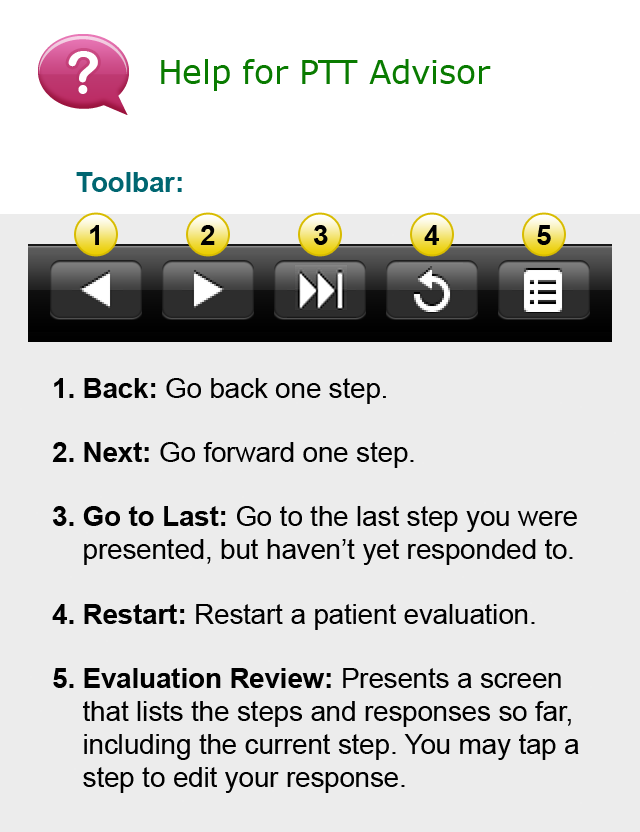
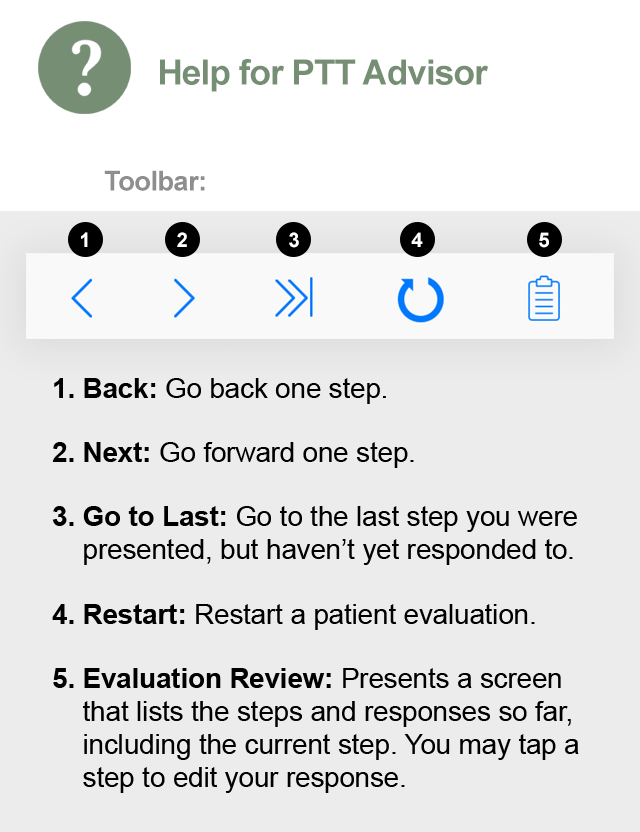
Status bar set to same color as toolbars. Add 1px line below top toolbar. New help image.

Changed region(s): [[0.0312, 0.1875, 0.9688, 0.4375], [0.25, 0.0625, 0.7812, 0.125], [0.0625, 0.0, 0.2188, 0.1562]]

diff --git a/Classes/AppDelegate.m b/Classes/AppDelegate.m
@@ -31,6 +31,23 @@ AppManager *appMgr;
     // Override point for customization after application launch.
     appMgr = [AppManager singletonAppManager];
  
+    // set status bar color
+//    UIView *view=[[UIView alloc] initWithFrame:CGRectMake(0, 0,[UIScreen mainScreen].bounds.size.width, 20)];
+//    view.backgroundColor = [UIColor colorWithRed:(249.0/255) green:(249.0/255) blue:(249.0/255) alpha:1.0];
+//    [self.window.rootViewController.view addSubview:view];
+    
+    
+    // status bar style and visibility
+    [UIApplication sharedApplication].statusBarHidden = NO;
+    [UIApplication sharedApplication].statusBarStyle = UIStatusBarStyleLightContent;
+    
+    // change status bar color
+    UIView *statusBar = [[UIApplication sharedApplication] valueForKey:@"statusBar"] ;
+    if ([statusBar respondsToSelector:NSSelectorFromString(@"setBackgroundColor:")] ) {
+        statusBar.backgroundColor = [UIColor colorWithRed:(249.0/255) green:(249.0/255) blue:(249.0/255) alpha:1.0];
+    }
+    
+
     
     // Set the application defaults
     NSUserDefaults *defaults = [NSUserDefaults standardUserDefaults];

diff --git a/Classes/EulaViewController.m b/Classes/EulaViewController.m
@@ -72,6 +72,25 @@ AppManager *appMgr;
 
 }
 
+-(void)viewWillAppear:(BOOL)animated
+{
+    
+    self.navigationController.navigationBarHidden = YES;
+    
+    // status bar style and visibility
+    [UIApplication sharedApplication].statusBarHidden = NO;
+    [UIApplication sharedApplication].statusBarStyle = UIStatusBarStyleLightContent;
+    
+    // change status bar color
+    UIView *statusBar = [[UIApplication sharedApplication] valueForKey:@"statusBar"] ;
+    if ([statusBar respondsToSelector:NSSelectorFromString(@"setBackgroundColor:")] ) {
+        statusBar.backgroundColor = [UIColor colorWithRed:(249.0/255) green:(249.0/255) blue:(249.0/255) alpha:1.0];
+    }
+    
+    
+}
+
+
 -(BOOL) webView:(UIWebView *)inWeb shouldStartLoadWithRequest:(NSURLRequest *)inRequest navigationType:(UIWebViewNavigationType)inType {
     if ( inType == UIWebViewNavigationTypeLinkClicked ) {
         [[UIApplication sharedApplication] openURL:[inRequest URL]];

diff --git a/Classes/DecisionVC.m b/Classes/DecisionVC.m
@@ -266,8 +266,6 @@ VisitedDecisionNodes *visitedNodes;
         
         [btnAnswer1 setTitle:btn1Connector.text forState:UIControlStateNormal];
         [btnAnswer1 setHidden:NO];
-//        [[btnAnswer1 layer] setBorderWidth:2.0f];
-//        [[btnAnswer1 layer] setBorderColor:[UIColor colorWithRed:0.00 green:0.47 blue:1.00 alpha:1.0].CGColor];
         
         
         if ([appMgr isDebugInfoEnabled]) {
@@ -287,8 +285,6 @@ VisitedDecisionNodes *visitedNodes;
         
         [btnAnswer2 setTitle:btn2Connector.text forState:UIControlStateNormal];
         [btnAnswer2 setHidden:NO];
-//        [[btnAnswer2 layer] setBorderWidth:1.0f];
-//        [[btnAnswer2 layer] setBorderColor:[UIColor colorWithRed:0.00 green:0.47 blue:1.00 alpha:1.0].CGColor];
         
         if ([appMgr isDebugInfoEnabled]) {
             self.labelBtn2Tree.text = [NSString stringWithFormat:@"Tree %lu", (unsigned long)btn2Connector.endNode.treeNumber];

diff --git a/Classes/HelpVC.m b/Classes/HelpVC.m
@@ -47,6 +47,24 @@
     // Do any additional setup after loading the view from its nib.
 }
 
+-(void)viewWillAppear:(BOOL)animated
+{
+    
+    self.navigationController.navigationBarHidden = YES;
+    
+    // status bar style and visibility
+    [UIApplication sharedApplication].statusBarHidden = NO;
+    [UIApplication sharedApplication].statusBarStyle = UIStatusBarStyleLightContent;
+    
+    // change status bar color
+    UIView *statusBar = [[UIApplication sharedApplication] valueForKey:@"statusBar"] ;
+    if ([statusBar respondsToSelector:NSSelectorFromString(@"setBackgroundColor:")] ) {
+        statusBar.backgroundColor = [UIColor colorWithRed:(249.0/255) green:(249.0/255) blue:(249.0/255) alpha:1.0];
+    }
+    
+    
+}
+
 - (void)viewDidUnload
 {
     [super viewDidUnload];

diff --git a/Classes/HelpViewController.m b/Classes/HelpViewController.m
@@ -53,6 +53,24 @@
     
 }
 
+-(void)viewWillAppear:(BOOL)animated
+{
+    
+    self.navigationController.navigationBarHidden = YES;
+    
+    // status bar style and visibility
+    [UIApplication sharedApplication].statusBarHidden = NO;
+    [UIApplication sharedApplication].statusBarStyle = UIStatusBarStyleLightContent;
+    
+    // change status bar color
+    UIView *statusBar = [[UIApplication sharedApplication] valueForKey:@"statusBar"] ;
+    if ([statusBar respondsToSelector:NSSelectorFromString(@"setBackgroundColor:")] ) {
+        statusBar.backgroundColor = [UIColor colorWithRed:(249.0/255) green:(249.0/255) blue:(249.0/255) alpha:1.0];
+    }
+    
+    
+}
+
 
 - (void)viewDidUnload
 {

diff --git a/Classes/DecisionVC.h b/Classes/DecisionVC.h
@@ -46,8 +46,6 @@
 @property(nonatomic, strong) DTConnector *btn1Connector;
 @property(nonatomic, strong) DTConnector *btn2Connector;
 
-- (IBAction)btnInfoTouchUp:(id)sender;
-- (IBAction)btnHelpTouchUp:(id)sender;
 
 -(void)updateNodeUI;
 - (IBAction)btnAnswer1TouchUp:(id)sender;

diff --git a/Classes/AboutVC.m b/Classes/AboutVC.m
@@ -56,6 +56,7 @@
     self.navigationItem.title = @"Info";
     self.labelVersionInfo.text = [NSString stringWithFormat:@"%@ %@", [self getVersionString], [self getBuildString]];
     
+    
 }
 
 
